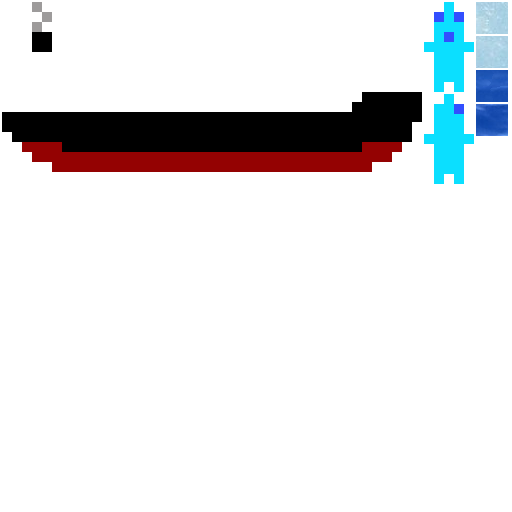
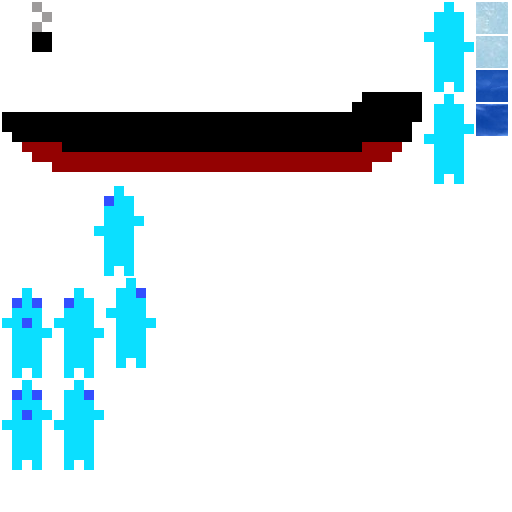
Bump 0.9

diff --git a/src/index.html b/src/index.html
@@ -57,7 +57,7 @@ Game.Intro.prototype =
       text.alpha = 0.1;
       var text_tween = game.add.tween(text).to({ alpha: 1}, 4000, "Linear", true );
       text_tween.onComplete.add(function() {
-        var start_text = game.add.text(320,300, "Use arrow keys to control Is-O\nPress any key to begin", { fill: "#ffffff", align:"center"});
+        var start_text = game.add.text(320,300, "Use arrow keys to control Is-O\nPress SPACE to begin", { fill: "#ffffff", align:"center"});
         start_text.anchor.setTo(0.5);
         
       });
@@ -73,10 +73,13 @@ Game.Intro.prototype =
   {
     this.game.input.keyboard.onDownCallback = function(e)
     {
-      this.game.input.keyboard.onDownCallback = undefined;
-      intro_track.stop();
-      this.game.state.start("Play", false, false);
-      //console.log(e.keyCode);
+      if (e.keyCode == 32)
+      {
+        this.game.input.keyboard.onDownCallback = undefined;
+        intro_track.stop();
+        this.game.state.start("Play", true, false);
+        //console.log(e.keyCode);
+      }
     }
   }
 }
@@ -147,10 +150,14 @@ Game.Play.prototype =
     //create player
     var playerStart = objects('playerStart', this.map, 'objectsLayer')
 
-    player = this.game.add.sprite(playerStart[0].x, playerStart[0].y, 'ytm-atlas', 'iceman-front.png');
+    player = this.game.add.sprite(playerStart[0].x, playerStart[0].y, 'ytm-atlas', 'iceman-front-1.png');
 
     player.anchor.setTo(0.5);
-    player.animations.add('left', ['iceman-side.png', 'iceman-front.png'], 10, true);
+    player.animations.add('left', ['iceman-left-1.png', 'iceman-left-2.png'], 5, true);
+    player.animations.add('right', ['iceman-right-1.png', 'iceman-right-2.png'], 5, true);
+    player.animations.add('back', ['iceman-back-1.png', 'iceman-back-2.png'], 5, true);
+    player.animations.add('front', ['iceman-front-1.png', 'iceman-front-2.png'], 5, true);
+    player.animations.play('front');
     this.game.physics.arcade.enable(player);
 
     player.body.collideWorldBounds = true;
@@ -173,7 +180,7 @@ Game.Play.prototype =
     function start() {
       if (!playing)
         pcp.loopFull(0.6);
-        playing = true;
+      playing = true;
     }
 
     game.sound.setDecodedCallback(pcp, start, this);
@@ -193,22 +200,33 @@ Game.Play.prototype =
     }
     if(this.cursors.left.isDown) {
       player.body.velocity.x -= 250;
-      //player.animations.play('left');
     }
     else if(this.cursors.right.isDown) {
       player.body.velocity.x += 250;
-    } else
-      player.animations.stop();
+    }
+
+    if(this.cursors.up.isDown) {
+      player.animations.play('back');
+    }
+    else if(this.cursors.down.isDown) {
+      player.animations.play('front');
+    }
+    else if(this.cursors.left.isDown) {
+      player.animations.play('left');
+    }
+    else if(this.cursors.right.isDown) {
+      player.animations.play('right');
+    }
 
     this.game.physics.arcade.collide(player, this.blockedLayer);
 
-    this.game.physics.arcade.overlap(player, tankers, tanker_collision_callback, null, this);
+    this.game.physics.arcade.collide(player, tankers, tanker_collision_callback, null, this);
     if (numberOfTankers == 0)
     {
       //level++;
       this.game.state.restart(false, false);
     }
-    StandingInWaterFilter.uniforms.posY.value = (player.position.y - game.camera.view.y);
+    StandingInWaterFilter.uniforms.posY.value = game.height - (player.position.y - game.camera.view.y);
   }
 }
 
